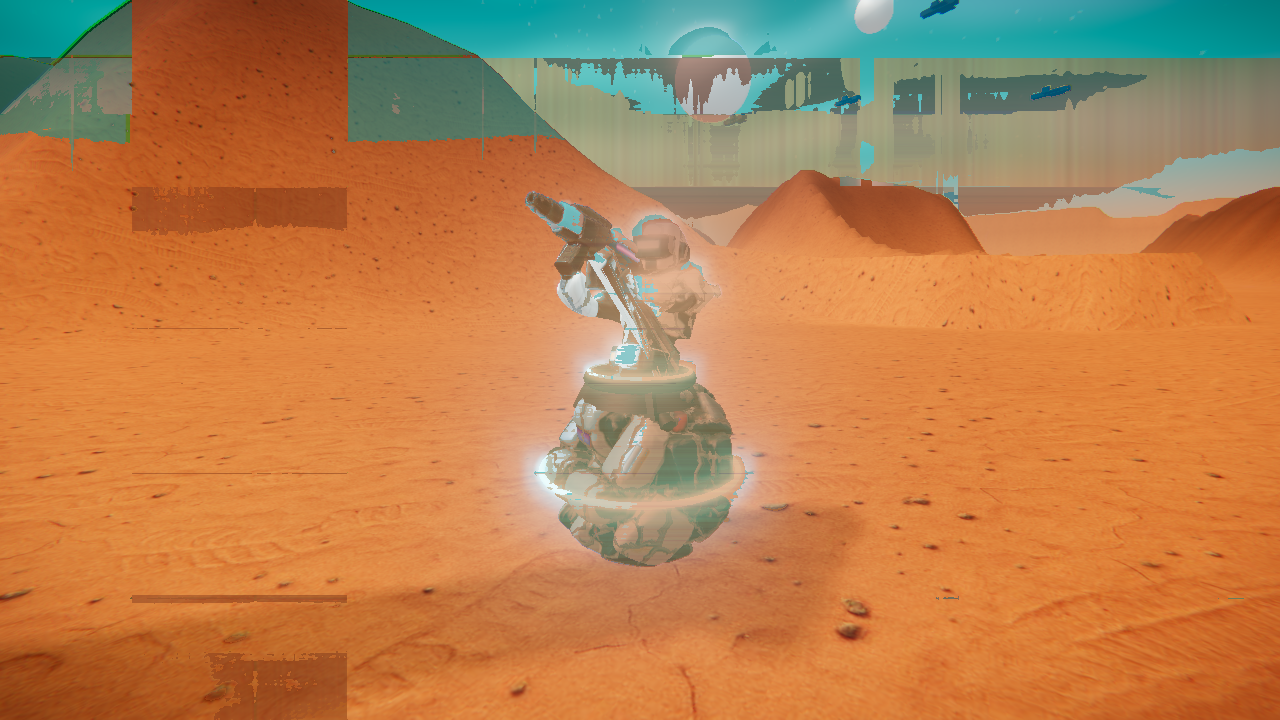
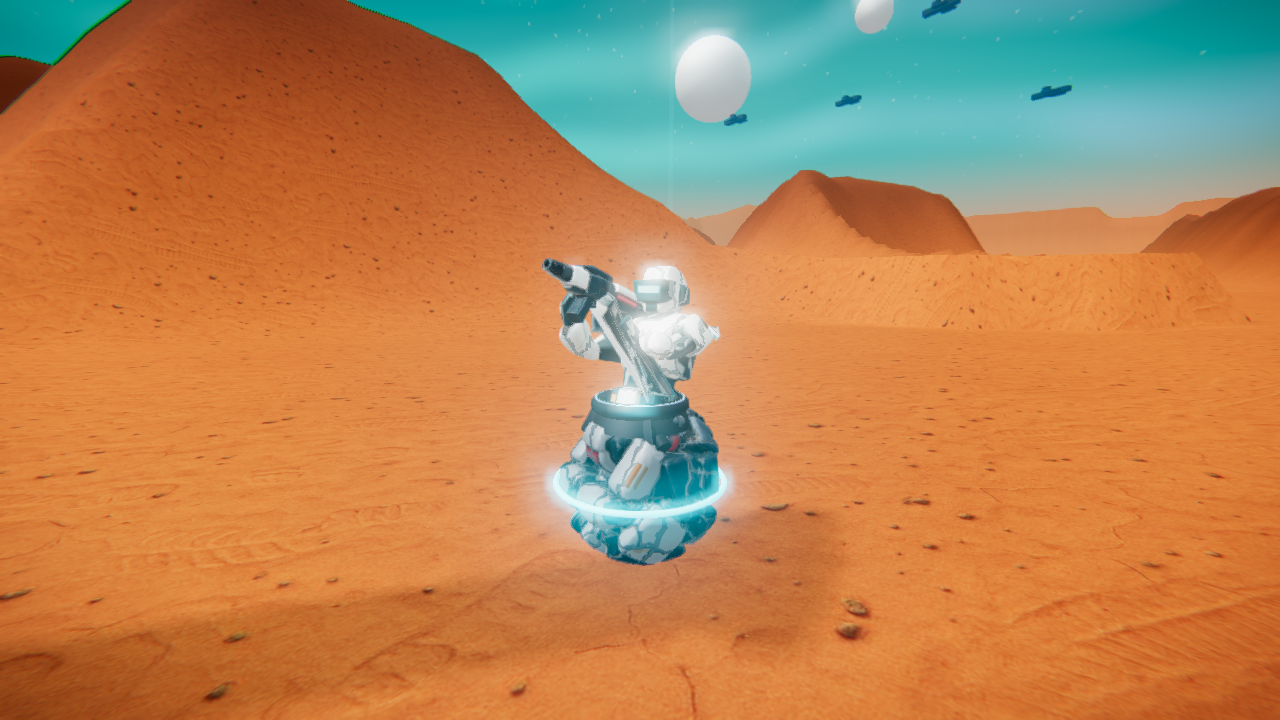
Lantern exposure floor, tinted fog, magenta ground bounce, brighter window emissives; calmer player neon halo

diff --git a/src/models/city.js b/src/models/city.js
@@ -129,7 +129,7 @@ export function hoverWreck(world, position, yaw = 0, opts = {}) {
   const hull = box(4, 0.9, 2, bodyMat); hull.position.y = 0.6; g.add(hull);
   const cabin = box(2.2, 0.6, 1.7, Mat.panel(1)); cabin.position.set(-0.3, 1.25, 0); g.add(cabin);
   const skirt = box(4.2, 0.3, 2.2, Mat.darkMetal()); skirt.position.y = 0.18; g.add(skirt);
-  const deadNeon = mesh(boxGeo(2.6, 0.06, 0.06), new THREE.MeshStandardMaterial({ color: '#1a1a1c', emissive: '#3a1020', emissiveIntensity: 0.25 }), false);
+  const deadNeon = mesh(boxGeo(2.6, 0.06, 0.06), new THREE.MeshStandardMaterial({ color: '#1a1a1c', emissive: '#3a1020', emissiveIntensity: 0.45 }), false);
   deadNeon.position.set(0, 0.95, 1.02); g.add(deadNeon);
   place(g, position, yaw);
   world.props.add(g);
@@ -156,7 +156,7 @@ export function planter(world, position, yaw = 0, opts = {}) {
   const g = new THREE.Group();
   const pot = cyl(0.55, 0.65, 0.6, Mat.concrete()); pot.position.y = 0.3; g.add(pot);
   const stalk = cyl(0.04, 0.07, 1.0, Mat.darkMetal(), 5); stalk.position.y = 1.0; g.add(stalk);
-  const bulb = mesh(icoGeo(0.22, 0), new THREE.MeshStandardMaterial({ color: '#0a1216', emissive: COLORS.cyanDim, emissiveIntensity: 0.5, roughness: 0.6 }), false);
+  const bulb = mesh(icoGeo(0.22, 0), new THREE.MeshStandardMaterial({ color: '#0a1216', emissive: COLORS.cyanDim, emissiveIntensity: 0.90, roughness: 0.6 }), false);
   bulb.position.y = 1.5; g.add(bulb);
   place(g, position, yaw);
   world.props.add(g);

diff --git a/src/world/maps/lantern.js b/src/world/maps/lantern.js
@@ -106,10 +106,10 @@ export const LANTERN = {
     palette: { floor: [0.22, 0.23, 0.28], floorNoise: [0.04, 0.04, 0.05], rock: [0.07, 0.075, 0.10], rockNoise: [0.03, 0.03, 0.04], ridge: [0.10, 0.10, 0.14], veinScale: 0.5 },
   },
   lighting: {
-    background: '#04030a', fog: '#0b0a18', fogDensity: 0.0022,
-    hemiSky: '#4a5cae', hemiGround: '#221436', hemiIntensity: 1.0,
-    sun: '#b4c4ff', sunIntensity: 1.7, sunOffset: [60, 120, -70],
-    ambient: '#2c3058', ambientIntensity: 0.85, envIntensity: 0.14,
+    background: '#06050e', fog: '#150c24', fogDensity: 0.0030,
+    hemiSky: '#5a6cc0', hemiGround: '#3a1a48', hemiIntensity: 1.35,
+    sun: '#b4c4ff', sunIntensity: 2.0, sunOffset: [60, 120, -70],
+    ambient: '#36395f', ambientIntensity: 1.1, envIntensity: 0.18,
   },
   sky: { top: '#020308', mid: '#0b0c1c', horizon: '#3a1650', aurora: 0, space: 0.35, sunDir: [0.3, 0.12, -0.9], sunColor: '#5a4a8a' },
   celestials: 'darkmoon',

diff --git a/src/models/glbSoldier.js b/src/models/glbSoldier.js
@@ -379,7 +379,7 @@ export function makeNeonMask(material, color) {
   }
   ctx.putImageData(id, 0, 0);
   const em = new THREE.CanvasTexture(cv); em.colorSpace = THREE.SRGBColorSpace; em.flipY = tex.flipY; em.wrapS = tex.wrapS; em.wrapT = tex.wrapT;
-  material.emissiveMap = em; material.emissive = new THREE.Color('#ffffff'); material.emissiveIntensity = 1.6; material.needsUpdate = true;
+  material.emissiveMap = em; material.emissive = new THREE.Color('#ffffff'); material.emissiveIntensity = 0.9; material.needsUpdate = true;
 }
 
 /** Roll a ball-mounted body: spin the sphere with ground velocity, squash it on landing. */
